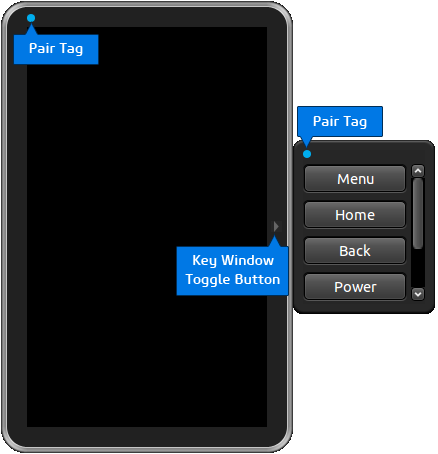
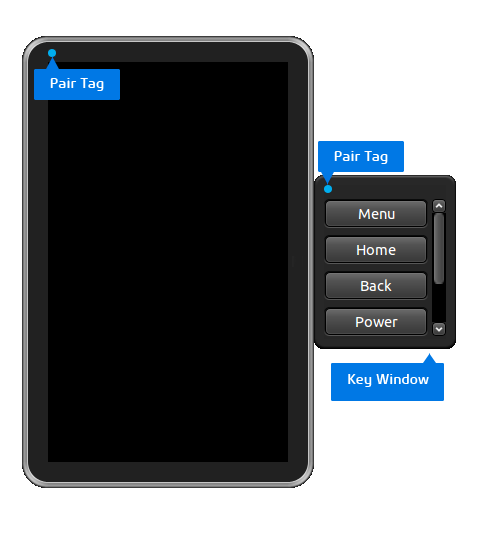
[DevTools] modify Emulator menu items
- modified menu name (Key Window -> Controller)
- remove toggle button on skin

diff --git a/org.tizen.devtools/html/common_tools/emulator.htm b/org.tizen.devtools/html/common_tools/emulator.htm
@@ -318,9 +318,6 @@ $egrep -c &#39;(vmx|svm)&#39; /proc/cpuinfo</pre>
 <li>Key window
 <p>The key window displays an independent hardware key input window, which can be moved to any position on the screen or docked to the left or right side of the main window. If the key window is docked with the main window, both windows can be moved together on the screen.</p>
 </li>
-<li>Toggle button
-<p>Use the toggle button to show or hide the key window.</p>
-</li>
 <li>Pair tag
 <p>The pair tag indicates that the Emulator main window and key window are in a pair. This tag is activated when the key window is open. The pair tag color changes every time the Emulator boot occurs.</p>
 </li>
@@ -549,15 +546,15 @@ $egrep -c &#39;(vmx|svm)&#39; /proc/cpuinfo</pre>
 <li><strong>Scale</strong> (mobile only)
 <p>Scale the size of the Emulator between 1x, 1/2x (default), 3/4x, and 1/4x.</p></li>
 
-<li><strong>Key Window</strong>
-<p>Show or hide the key window.</p>
+<li><strong>Advanced &gt; Controller</strong>
+<p>Show or hide the controller window.</p>
 <table class="note">
   <tbody>
     <tr>
       <th class="note">Note</th>
     </tr>
 		<tr>
-			<td class="note">The <strong>Key Window</strong> menu is not supported in the profile-specific skin.</td>
+			<td class="note">The <strong>Controller</strong> menu is not supported in the profile-specific skin.</td>
 		</tr>
   </tbody>
 </table></li>
